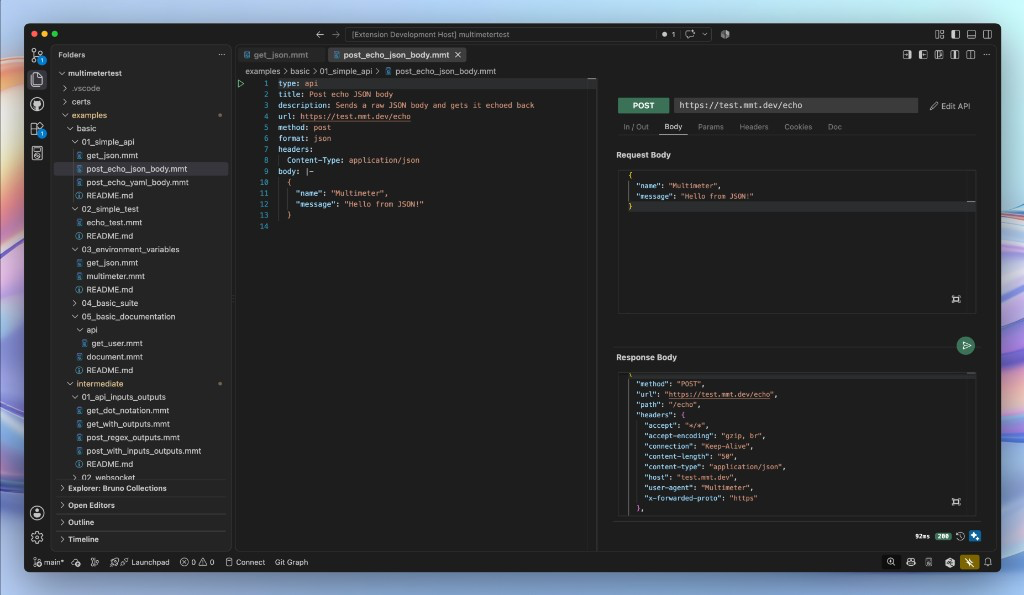
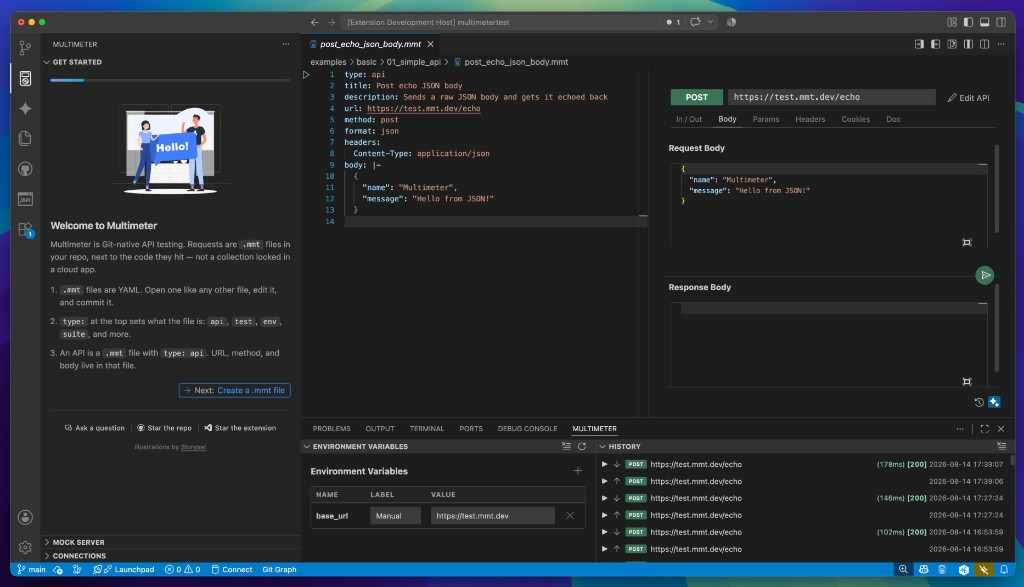
Point marketplace listing at Get Started and a first POST.
Replace the intro screenshot with the editor plus Get Started panel, and use the same Simple POST sample as onboarding.

diff --git a/EXTENSION.md b/EXTENSION.md
@@ -13,9 +13,7 @@
 </div>
 
 <p align="center">
-  <a href="https://www.youtube.com/watch?v=07Q-Xy0SIcs">
-    <img src="res/intro.png" alt="Multimeter intro" width="640" />
-  </a>
+  <img src="res/intro.png" alt="Multimeter — Get Started, YAML, and API tester" width="640" />
 </p>
 
 ## 🚀 Simplicity along with Power.
@@ -59,13 +57,18 @@ All in the same tool. No migration required.
 
 Multimeter is a VS Code-native extension. All you need is:
 1. Click Install button in [Multimeter VS Code Extension](https://marketplace.visualstudio.com/items?itemName=mshobeyri.multimeter)
-2. Create a `.mmt` file
-3. Type:
+2. Open **Get Started** from the activity bar and follow the instructions
+
+There you run a POST request as follows:
 
 ```yaml
 type: api
+title: Simple POST
 url: https://test.mmt.dev/echo
-method: get
+method: post
+format: json
+body:
+  message: hello
 ```
 
 That's enough for manual API testing. **Need automated tests?**

diff --git a/README.md b/README.md
@@ -24,9 +24,7 @@
 </div>
 
 <p align="center">
-  <a href="https://www.youtube.com/watch?v=07Q-Xy0SIcs">
-    <img src="res/intro.png" alt="Multimeter intro" width="640" />
-  </a>
+  <img src="res/intro.png" alt="Multimeter — Get Started, YAML, and API tester" width="640" />
 </p>
 
 
@@ -104,13 +102,18 @@ All in the same tool. No migration required.
 
 Multimeter is a VS Code-native extension. All you need:
 - Click Install button in [Multimeter VS Code Extension](https://marketplace.visualstudio.com/items?itemName=mshobeyri.multimeter)
-- Create a `.mmt` file
-- Type:
+- Open **Get Started** from the `Activity bar` and follow the instructions
+
+There you run a POST request as follows:
 
 ```yaml
 type: api
+title: Simple POST
 url: https://test.mmt.dev/echo
-method: get
+method: post
+format: json
+body:
+  message: hello
 ```
 
 That's enough.
